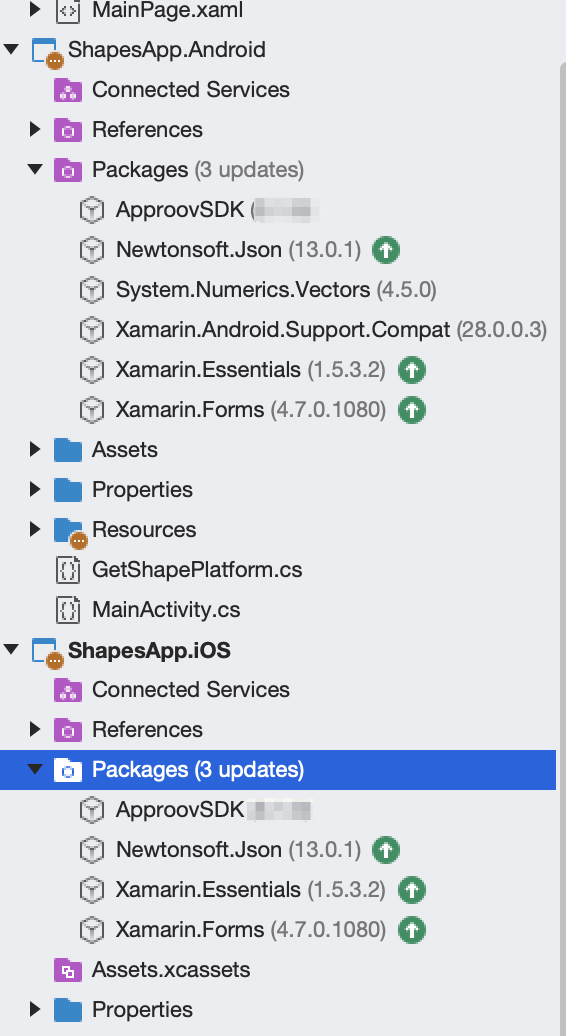
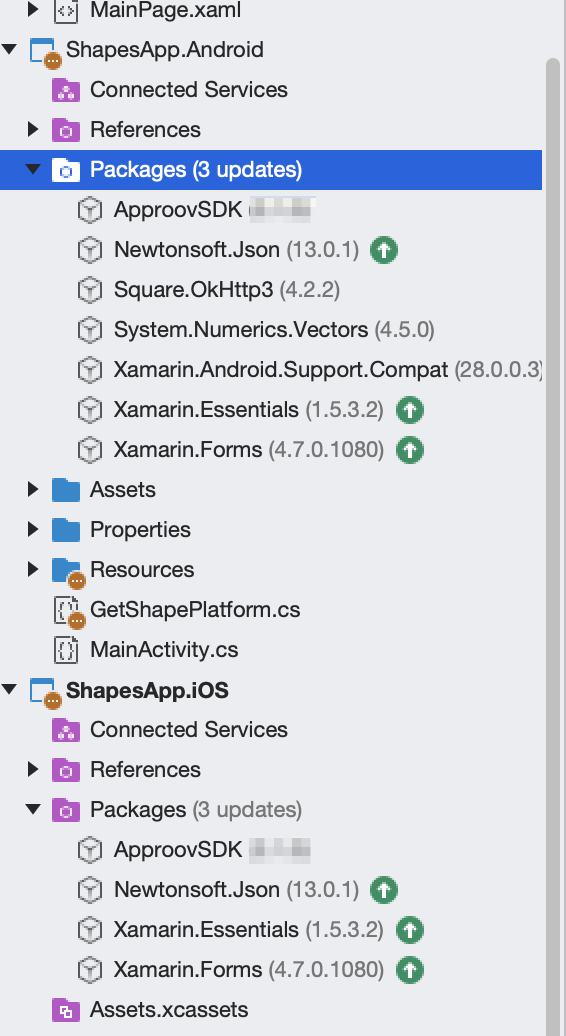
Correct final project screenshot; Add info regarding okhttp package for Android

diff --git a/SHAPES-EXAMPLE.md b/SHAPES-EXAMPLE.md
@@ -8,7 +8,7 @@ This quickstart is written specifically for native iOS apps that are written in 
 * [Visual Studio](https://visualstudio.microsoft.com/vs/mac/) with Xamarin extensions (Mac version 8.10.25 is used in this guide)
 * The contents of the folder containing this README
 * An Apple mobile device with iOS 10 or higher or an Android 5.0+ device. Alternatively, iOS simulator or Android emulator would suffice
-* Nuget packages supporting the native Approov SDK: `ApproovSDK` version `3.1.0`.
+* Nuget packages supporting the native Approov SDK: `ApproovSDK` version `3.1.0` and `Square.OkHttp3` version `4.2.2` if targetting Android
 
 ## RUNNING THE SHAPES APP WITHOUT APPROOV
 

diff --git a/README.md b/README.md
@@ -17,7 +17,7 @@ The Approov SDK makes use of a custom `HttpClient` implementation, `ApproovHttpC
 
 ![Add ApproovSDK Package](readme-images/add-nuget-packages.png)
 
-Select and install the latest available version.
+Select and install the latest available version. Please note, that `Android` applications require an additional package: `Square.OkHttp3`. The version used in the `SahpesApp.Android` is `4.2.2`.
 
 
 ## USING THE APPROOV SERVICE
